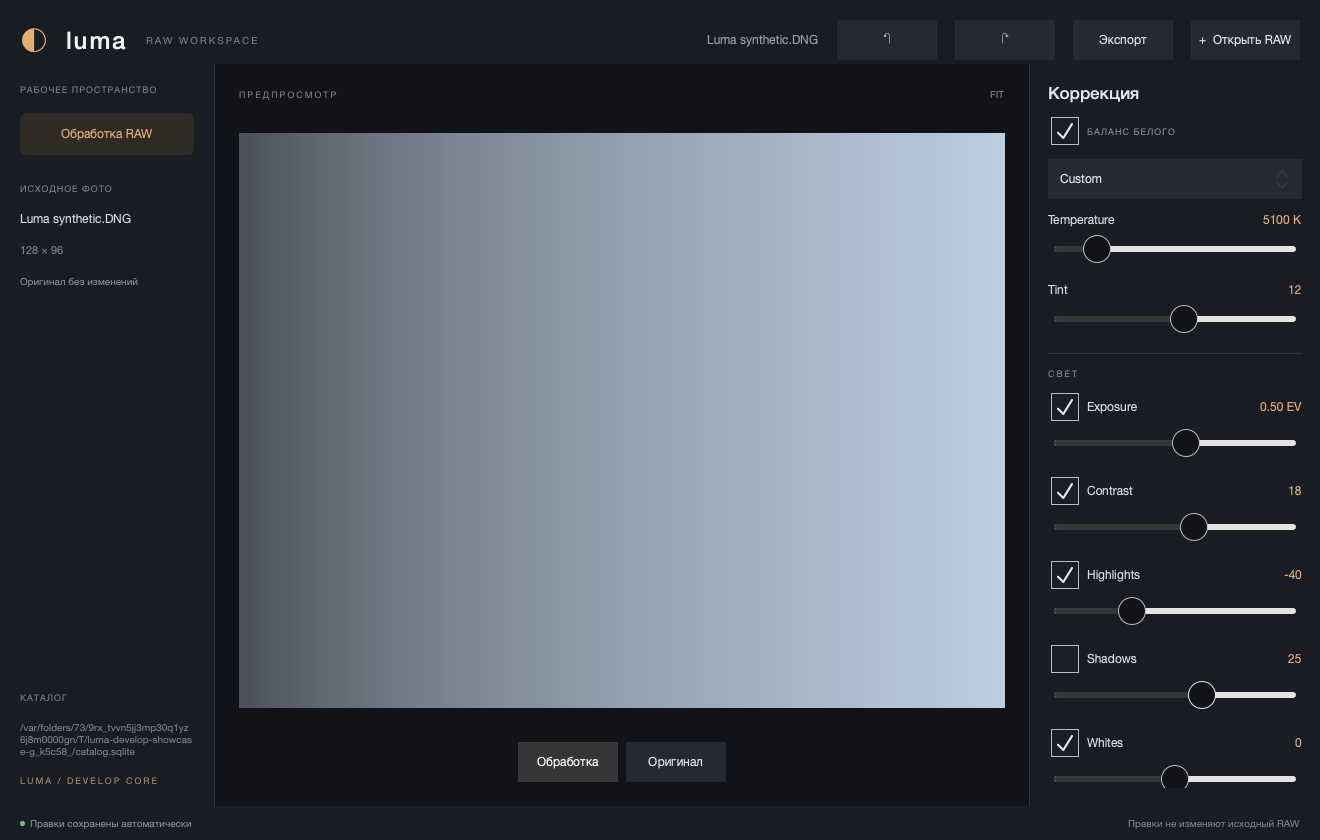
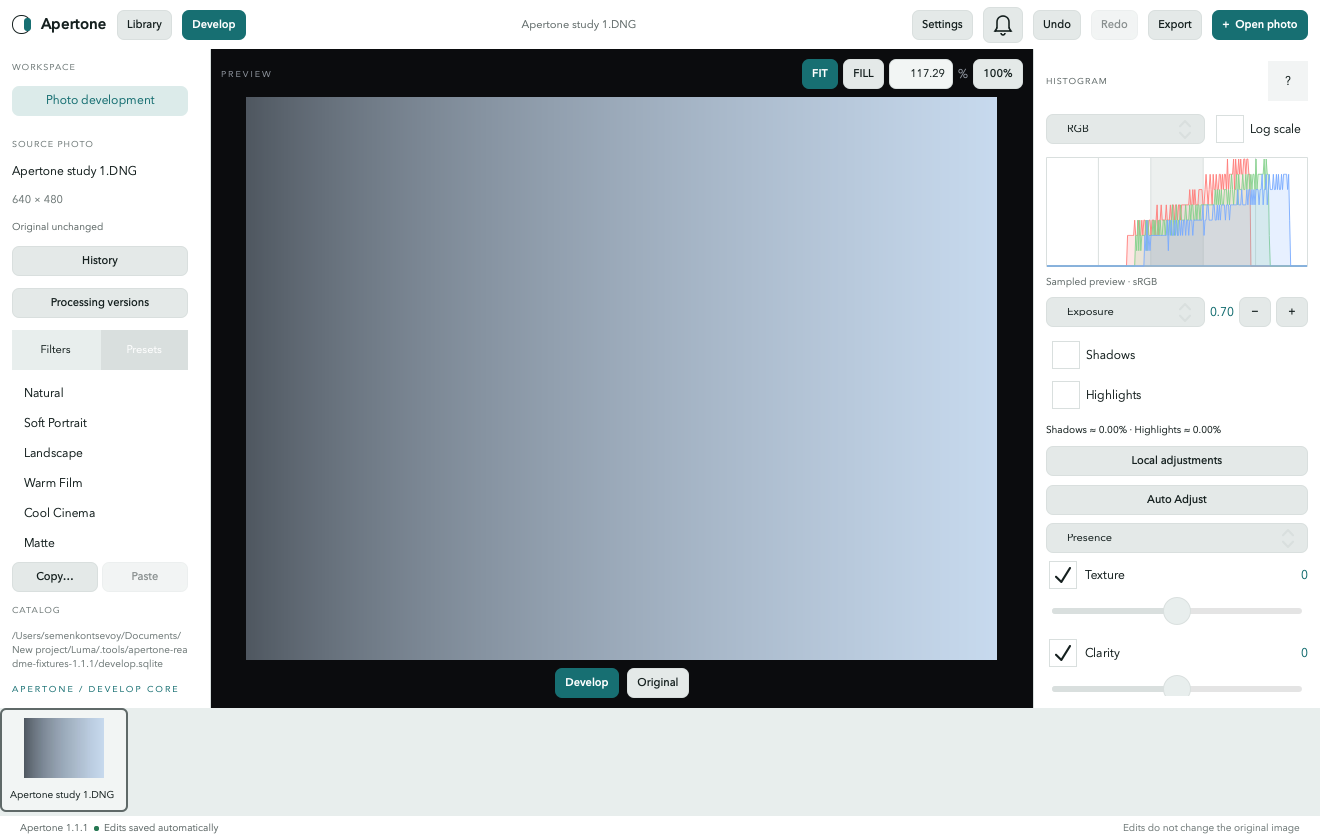
release: complete Apertone branding for 1.1.1

diff --git a/apps/desktop/qml/Main.qml b/apps/desktop/qml/Main.qml
@@ -148,7 +148,7 @@ ApplicationWindow {
                     Rectangle { anchors.fill: parent; radius: width / 2; color: "transparent"; border.width: 1; border.color: Theme.text }
                     Rectangle { width: 7; height: 13; anchors.right: parent.right; anchors.verticalCenter: parent.verticalCenter; radius: 4; color: Theme.accent }
                 }
-                Label { text: "luma"; color: Theme.text; font.pixelSize: 15; font.weight: Font.DemiBold }
+                Label { text: "Apertone"; color: Theme.text; font.pixelSize: 15; font.weight: Font.DemiBold }
                 ApertoneButton { objectName: "main.libraryButton"; text: qsTranslate("Apertone", "Library"); highlighted: root.libraryMode; onClicked: root.libraryMode = true }
                 ApertoneButton { objectName: "main.developButton"; text: qsTranslate("Apertone", "Develop"); highlighted: !root.libraryMode; onClicked: root.libraryMode = false }
                 Label { objectName: "main.filename"; Layout.fillWidth: true; Layout.minimumWidth: 0; text: editor.filename; color: Theme.muted; font.pixelSize: 11; elide: Text.ElideMiddle; horizontalAlignment: Text.AlignHCenter }
@@ -248,7 +248,7 @@ ApplicationWindow {
                         PresetPanel { id: presetSettings; Layout.fillWidth: true; Layout.fillHeight: true }
                         Label { text: qsTranslate("Apertone", "CATALOG"); color: Theme.faint; font.pixelSize: 9; font.letterSpacing: 1 }
                         Label { text: editor.catalogPath; color: Theme.faint; font.pixelSize: 10; wrapMode: Text.WrapAnywhere; Layout.fillWidth: true }
-                        Label { text: "LUMA / DEVELOP CORE"; color: Theme.accent; font.pixelSize: 9; font.letterSpacing: 2 }
+                        Label { text: "APERTONE / DEVELOP CORE"; color: Theme.accent; font.pixelSize: 9; font.letterSpacing: 2 }
                     }
                 }
             }

diff --git a/apps/cli/main.cpp b/apps/cli/main.cpp
@@ -123,26 +123,27 @@ int main(int argc, char **argv) {
             }
         }
         if (arguments.empty() || arguments[0] == "--help") {
-            std::cout << "Apertone Library and Develop\nUsage: luma open RAW --catalog FILE\n"
-                      << "       luma exposure EV --catalog FILE\n"
-                      << "       luma restore --catalog FILE\n"
-                      << "       luma lens profiles | lens profile auto|ID --catalog FILE\n"
-                      << "       luma develop PARAM=VALUE... --catalog FILE\n"
-                      << "       luma curve rgb|red|green|blue X:Y X:Y... --catalog FILE\n"
-                      << "       luma enable|disable CORRECTION --catalog FILE\n"
-                      << "       luma wb as-shot --catalog FILE\n"
-                      << "       luma export DEST [--quality N] [--overwrite] --catalog FILE\n"
-                      << "       luma catalog verify --catalog FILE\n"
-                      << "       luma import add SOURCES... | import copy DEST SOURCES... "
-                         "--catalog FILE\n"
-                      << "       luma library [--search TEXT] [--rating N] [--flag N] [--label "
-                         "COLOR] [--collection ID] [--offset N] [--limit N] --catalog FILE\n"
-                      << "       luma rate|flag|label VALUE IDS... --catalog FILE\n"
-                      << "       luma collections | collection create NAME | collection rename ID "
-                         "NAME --catalog FILE\n"
-                      << "       luma collection add|remove ID ASSETS... | collection delete ID "
-                         "--catalog FILE\n"
-                      << "       luma recover --catalog FILE\n";
+            std::cout
+                << "Apertone Library and Develop\nUsage: apertone open RAW --catalog FILE\n"
+                << "       apertone exposure EV --catalog FILE\n"
+                << "       apertone restore --catalog FILE\n"
+                << "       apertone lens profiles | lens profile auto|ID --catalog FILE\n"
+                << "       apertone develop PARAM=VALUE... --catalog FILE\n"
+                << "       apertone curve rgb|red|green|blue X:Y X:Y... --catalog FILE\n"
+                << "       apertone enable|disable CORRECTION --catalog FILE\n"
+                << "       apertone wb as-shot --catalog FILE\n"
+                << "       apertone export DEST [--quality N] [--overwrite] --catalog FILE\n"
+                << "       apertone catalog verify --catalog FILE\n"
+                << "       apertone import add SOURCES... | import copy DEST SOURCES... "
+                   "--catalog FILE\n"
+                << "       apertone library [--search TEXT] [--rating N] [--flag N] [--label "
+                   "COLOR] [--collection ID] [--offset N] [--limit N] --catalog FILE\n"
+                << "       apertone rate|flag|label VALUE IDS... --catalog FILE\n"
+                << "       apertone collections | collection create NAME | collection rename ID "
+                   "NAME --catalog FILE\n"
+                << "       apertone collection add|remove ID ASSETS... | collection delete ID "
+                   "--catalog FILE\n"
+                << "       apertone recover --catalog FILE\n";
             return 0;
         }
         if (catalog.empty()) {

diff --git a/tests/integration/rebrand.py b/tests/integration/rebrand.py
@@ -21,7 +21,7 @@ assert info["SUFeedURL"] == (
 assert info["SUPublicEDKey"] == "yyXDZkahzYddht4vWZjFW5oRBLFs4yCdkK7CZZk+SYI="
 
 cmake = (ROOT / "CMakeLists.txt").read_text()
-require(cmake, "project(Apertone VERSION 1.1.0", "CMakeLists.txt")
+require(cmake, "project(Apertone VERSION 1.1.1", "CMakeLists.txt")
 require(cmake, "qt_add_executable(Apertone MACOSX_BUNDLE", "CMakeLists.txt")
 require(cmake, "URI Apertone.Desktop", "CMakeLists.txt")
 require(cmake, "resources/branding/Apertone.icns", "CMakeLists.txt")
@@ -37,6 +37,16 @@ assert main.index("parser.process(app)") < main.rindex(
 decoder = (ROOT / "core/raw/RawDecoder.cpp").read_text()
 require(decoder, 'make == "Apertone" || make == "Luma"', "RawDecoder.cpp")
 require(decoder, 'model.starts_with("Luma Rendered Linear RGB")', "RawDecoder.cpp")
+
+qml = (ROOT / "apps/desktop/qml/Main.qml").read_text()
+require(qml, 'text: "Apertone"', "Main.qml")
+require(qml, 'text: "APERTONE / DEVELOP CORE"', "Main.qml")
+assert 'text: "luma"' not in qml
+assert 'text: "LUMA / DEVELOP CORE"' not in qml
+
+cli = (ROOT / "apps/cli/main.cpp").read_text()
+require(cli, "Usage: apertone open RAW", "apps/cli/main.cpp")
+assert "Usage: luma " not in cli
 
 for script in ("package.sh", "package-dmg.sh", "release-artifacts.sh",
                "create-appcast.py", "publish-release.py"):

diff --git a/README.md b/README.md
@@ -1,23 +1,22 @@
 # Apertone
 
-Open-source non-destructive photo editor for macOS.
+Open-source, local-first, non-destructive photo editor for macOS.
 
 Apertone is a local-first photo workspace for Apple Silicon, built with C++20,
 Qt 6/QML, LibRaw, SQLite and LittleCMS. No account or cloud service is required.
-The product requirements originated under the working name Photon; Apertone is the
-project name used for implementation.
 
 ![Apertone Develop viewer with a project-generated test DNG](docs/screenshot.png)
 
-## Release: v1.1.0
+## Release: v1.1.1
 
 [Download the latest published release for macOS Apple Silicon](https://github.com/yakut-sekonts/Apertone/releases/latest) ·
-[1.1.0 release notes](docs/releases/v1.1.0.md)
+[1.1.1 release notes](docs/releases/v1.1.1.md)
 
 DMG and ZIP contain a standalone application; Qt SDK and Homebrew are not needed.
 The build is ad-hoc signed and not notarized. Installation instructions and
-checksums accompany the release. Version 1.1.0 renames the application to
-Apertone and introduces compact Day and Night desktop appearances while retaining
+checksums accompany the release. Version 1.1.1 completes the Apertone rename
+across the interface and CLI. It includes compact Day and
+Night desktop appearances while retaining
 the full 1.0 editing scope. Existing Luma 1.0 catalogs, settings, DNG output and
 Sparkle update installations are upgraded in place.
 
@@ -90,7 +89,7 @@ reconstruction and production camera profiles remain planned.
 ## Build and run
 
 ```bash
-git clone --branch v1.1.0 https://github.com/yakut-sekonts/Apertone.git
+git clone --branch v1.1.1 https://github.com/yakut-sekonts/Apertone.git
 cd Apertone
 ./scripts/bootstrap.sh
 export PATH="$PWD/.tools/venv/bin:$PATH"
@@ -446,7 +445,7 @@ The complete local mask workflow is implemented in the 0.5.1 source; see below.
 The application and mounted DMG use Apertone's split-tone aperture logo. Settings,
 window title, status bar, Finder and --version share CMake's release version.
 The latest GitHub Release provides a matching DMG, ZIP, SHA256SUMS, BUILD_INFO.json
-and signed Sparkle appcast. See [release notes](docs/releases/v1.1.0.md).
+and signed Sparkle appcast. See [release notes](docs/releases/v1.1.1.md).
 
 ## Local adjustments / 0.5.1 source
 

diff --git a/docs/releases/v1.1.1.md b/docs/releases/v1.1.1.md
@@ -1,0 +1,21 @@
+# Apertone 1.1.1
+
+This patch completes the public rename introduced in 1.1.0. The application
+chrome and Develop workspace marker now consistently display Apertone, and the
+CLI help uses the `apertone` executable name.
+
+The repository description and current screenshots were refreshed to match the
+shipping interface. Internal compatibility identifiers remain unchanged so
+existing catalogs, settings, presets, XMP data and Sparkle updates continue to
+work in place.
+
+## Install
+
+Requires macOS 14 or later on Apple Silicon. Download
+`Apertone-1.1.1-macos-arm64.dmg`, drag Apertone to Applications and open it.
+The open-source build is ad-hoc signed and is not Apple-notarized. If Gatekeeper
+blocks the first launch, Control-click Apertone, choose Open, then confirm Open.
+
+Existing installations receive 1.1.1 through the update bell. The release also
+provides the Sparkle-signed ZIP, `appcast.xml`, SHA-256 manifest and build
+provenance.

diff --git a/CHANGELOG.md b/CHANGELOG.md
@@ -1,5 +1,13 @@
 # Changelog
 
+## 1.1.1 / 2026-10-28
+
+- Completed the visible Apertone rename in the application chrome, Develop
+  workspace marker and CLI usage.
+- Updated the public project description, current screenshots and release
+  documentation. Legacy identifiers required for catalog, settings, XMP and
+  Sparkle update compatibility remain unchanged.
+
 ## 1.1.0 / 2026-10-27
 
 - Renamed the public product, application bundle, executable, release artifacts

diff --git a/THIRD_PARTY_LICENSES.md b/THIRD_PARTY_LICENSES.md
@@ -1,6 +1,6 @@
 # Third-party dependencies
 
-Luma's original source is Apache-2.0. Dependencies retain their own licenses.
+Apertone's original source is Apache-2.0. Dependencies retain their own licenses.
 
 - **Qt 6.10.3** — https://www.qt.io / https://download.qt.io/archive/qt/6.10/6.10.3/
   Core, Gui, Qml, Quick, QuickControls2, native dialogs, tools and SVG plugins.

diff --git a/AGENTS.md b/AGENTS.md
@@ -1,4 +1,4 @@
-# Luma development
+# Apertone development
 
 - Respond in Russian; preserve code identifiers and technical terms.
 - Use Graphify to inspect code relationships and the impact of a proposed change.

diff --git a/docs/development/GRAPHIFY.md b/docs/development/GRAPHIFY.md
@@ -1,4 +1,4 @@
-# Graphify for Luma
+# Graphify for Apertone
 
 Graphify is an optional local development tool for navigating source relationships.
 It is not a build dependency or a release quality gate.
